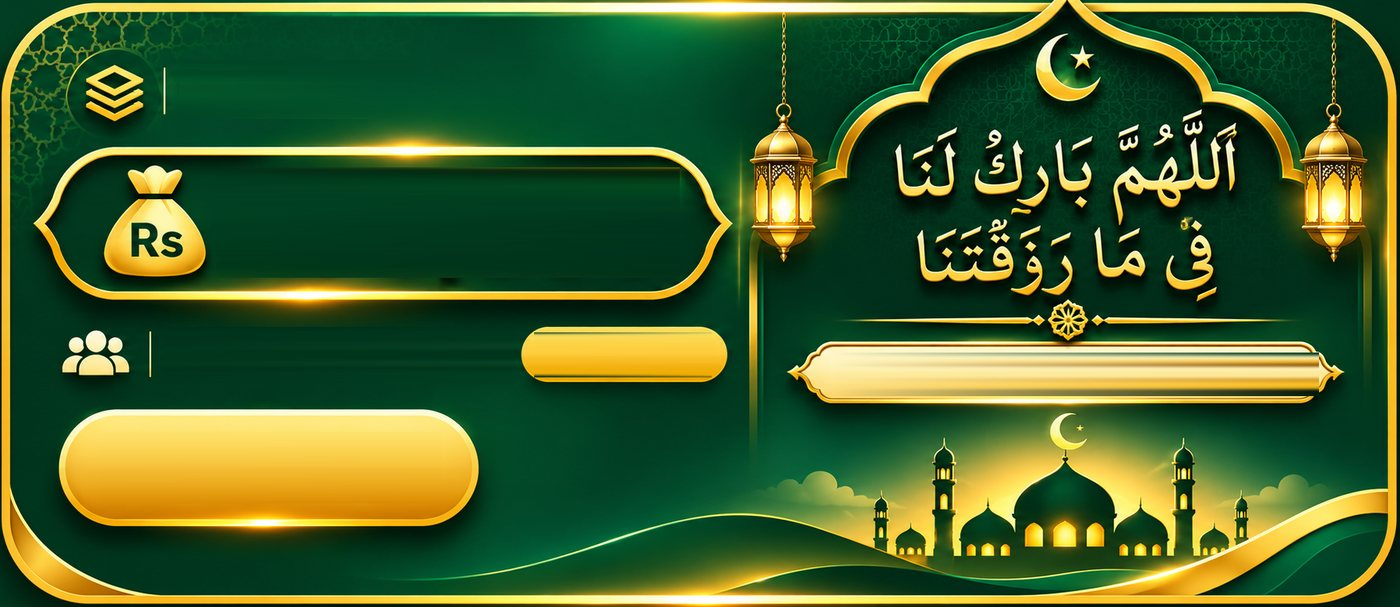
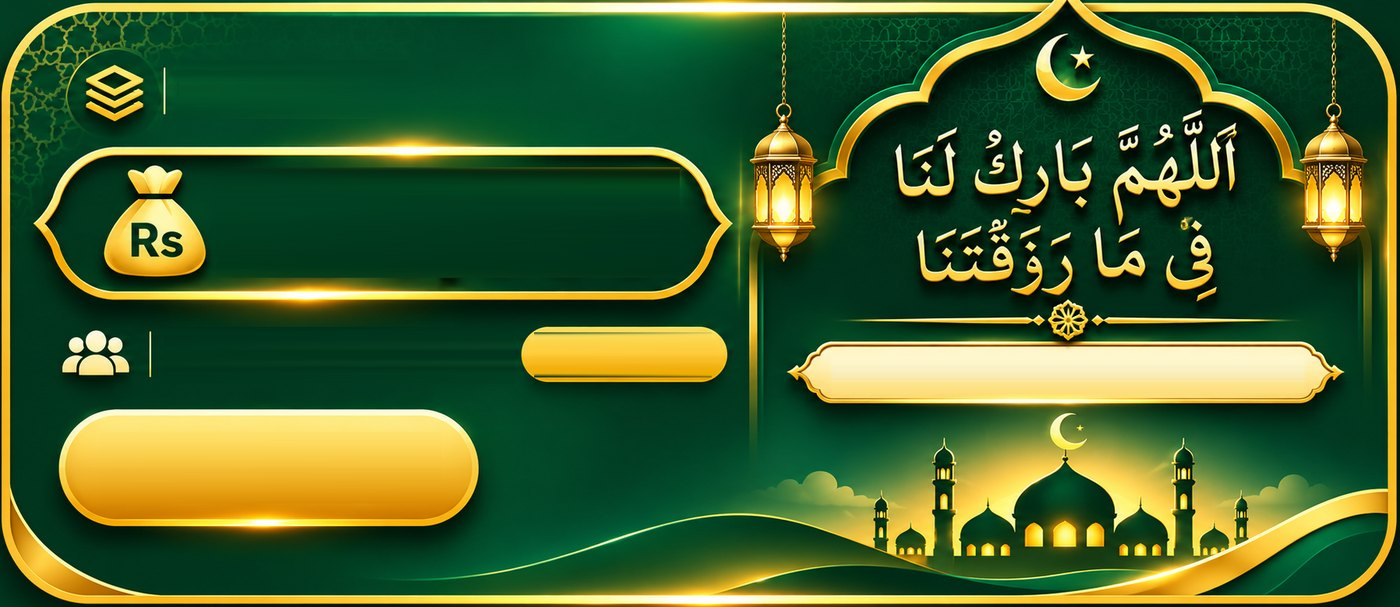
Add files via upload

Changed region(s): [[0.6143, 0.5634, 0.9521, 0.6524]]

diff --git a/index.html b/index.html
@@ -160,19 +160,22 @@ h1,h2,.num,.big,.kpi b{font-family:Montserrat,Nunito,"Noto Sans Arabic","Noto Sa
 .dua{font-family:Amiri,'Noto Naskh Arabic','Traditional Arabic',serif!important;font-weight:700;font-size:21px;line-height:1.75;text-align:center;direction:rtl;background:linear-gradient(180deg,#fff7cf 0%,#f8d96c 32%,#e3a722 58%,#a8740f 100%);-webkit-background-clip:text;background-clip:text;color:transparent;filter:drop-shadow(0 1.5px 0 #6b4a07) drop-shadow(0 4px 6px rgba(0,0,0,.45)) drop-shadow(0 0 10px rgba(246,207,91,.35));margin:0}
 .duabox{flex:0 1 46%;max-width:190px;text-align:center;margin-inline-start:8px}.duabox small{display:block;color:#f3d47a;font-size:10.5px;line-height:1.35;margin-top:2px;font-weight:600}
 .infochips{display:flex;gap:6px;flex-wrap:wrap;margin:-2px 0 6px}.infochips button{background:#fff;color:#0b261b;border:1.5px solid #c8d6c4;box-shadow:none;padding:7px 12px;font-size:12.5px}.infochips button.hot{background:linear-gradient(180deg,#fff3d1,#f9df93);border-color:#d9a521}
-html[lang=ur] body *:not(.dua):not(.dua *){font-family:'Jameel Noori Nastaleeq','Noto Nastaliq Urdu',Nunito,sans-serif!important}
+html[lang=ur] body *:not(.dua):not(.dua *):not(.hb-amt):not(.hb-n){font-family:'Jameel Noori Nastaleeq','Noto Nastaliq Urdu',Nunito,sans-serif!important}
 html[lang=ur] body,html[lang=ur] button,html[lang=ur] input,html[lang=ur] select,html[lang=ur] textarea{line-height:1.95}
 html[lang=ur] h1{line-height:1.6}
 .hban{position:relative;container-type:inline-size;margin:12px -4px;direction:ltr;filter:drop-shadow(0 8px 14px rgba(0,0,0,.35))}
 .hban img{display:block;width:100%;height:auto;border-radius:4.2cqw}
-.hban>div,.hban>button{position:absolute;white-space:nowrap;line-height:1.15;unicode-bidi:plaintext}
+.hban>div,.hban>button{position:absolute;white-space:nowrap;line-height:1.25!important;unicode-bidi:plaintext;overflow:visible}
+html[lang=ur] .hban>div,html[lang=ur] .hban>button{line-height:1.7!important}
+.hb-n{font-family:Montserrat,Nunito,sans-serif!important}
 .hb-l1{left:13.2%;top:14.7%;transform:translateY(-50%);font-family:Montserrat,Nunito,sans-serif;font-weight:800;font-size:2.9cqw;color:#fff}
 .hb-amt{left:15.7%;top:36.5%;transform:translateY(-50%);font-family:Montserrat,Nunito,sans-serif;font-weight:800;color:#fff4d2;text-shadow:0 .28cqw 0 #9b7414,0 .6cqw 1.2cqw rgba(0,0,0,.55)}
-.hb-dl{left:12.1%;top:58.6%;transform:translateY(-50%);font-family:Montserrat,Nunito,sans-serif;font-weight:800;font-size:2.4cqw;color:#fff;max-width:25.1cqw;overflow:hidden;text-overflow:ellipsis}
+.hb-dl{left:12.1%;top:58.6%;transform:translateY(-50%);font-family:Montserrat,Nunito,sans-serif;font-weight:800;font-size:2.4cqw;color:#fff;}
 .hb-pc{left:38.15%;width:12.7%;top:58.5%;transform:translateY(-50%);text-align:center;font-family:Montserrat,Nunito,sans-serif;font-weight:800;font-size:2.45cqw;color:#1c2b0f}
 .hban .hb-btn{left:4.3%;top:67.3%;width:29.8%;height:19.2%;background:transparent;box-shadow:none;border:0;border-radius:999px;padding:0;font-family:Montserrat,Nunito,sans-serif;font-weight:800;font-size:3.7cqw;color:#0b261b}
-.hb-rib{left:59.6%;width:34.6%;top:61.7%;transform:translateY(-50%);text-align:center;font-family:Georgia,'Times New Roman',serif;font-style:italic;font-weight:700;color:#0b261b}
+.hb-rib{left:61%;width:31.8%;top:61.7%;transform:translateY(-50%);overflow:hidden!important;text-align:center;font-family:Georgia,'Times New Roman',serif;font-style:italic;font-weight:700;color:#0b261b}
 html[lang=ur] .hb-rib,html[lang=ur] .hb-l1,html[lang=ur] .hb-dl{font-style:normal}
+html[lang=ur] .hb-rib{transform:translateY(-40%);line-height:1.5!important}
 .pw{position:relative}.pw input{padding-inline-end:54px}.pw .eye{position:absolute;inset-inline-end:6px;top:calc(50% - 3px);transform:translateY(-50%);background:none;box-shadow:none;border:0;padding:6px 10px;font-size:19px;line-height:1}
 .rep{overflow-x:auto}.rep table{font-size:11.5px}.rep td,.rep th{padding:6px 3px}@media print{.rep{overflow:visible}.rep table{font-size:12px}}
 </style>
@@ -504,12 +507,14 @@ function render(){
  const rtl=S.screen==='vw1'||S.screen==='vw2'?RTL7.includes(S.vlang):S.lang==='ur';
  const lg=(sc==='vw1'||sc==='vw2')?S.vlang:S.lang;document.documentElement.dir=rtl?'rtl':'ltr';document.documentElement.lang=lg;if(lg==='ur'&&!document.getElementById('nastf')){const l=document.createElement('link');l.id='nastf';l.rel='stylesheet';l.href='https://fonts.googleapis.com/css2?family=Noto+Nastaliq+Urdu:wght@400;700&display=swap';document.head.appendChild(l)}
  const a=$('#app');
- if(sc==='app')a.innerHTML=hdr()+bars()+`<main>${body()}<p class="foot">${t('devBy')}</p></main>`+nav();
+ if(sc==='app'){a.innerHTML=hdr()+bars()+`<main>${body()}<p class="foot">${t('devBy')}</p></main>`+nav();fitBan();setTimeout(fitBan,60)}
  else if(sc==='report')a.innerHTML=`<div class="rep-tools noprint"><button onclick="window.print()">🖨 ${t('print')}</button><button class="ghost" onclick="S.screen='app';render()">↩ ${t('back')}</button></div><p class="noprint center" style="color:#cfe6d9;font-size:12px;margin:0 0 8px;position:relative;z-index:1">${t('printHint')}</p><div class="rep">${S.report}</div>`;
  else if(sc==='vw1'||sc==='vw2')a.innerHTML=`<main class="vmain">${pre()}</main>`;else a.innerHTML=simpleHdr(true)+`<main>${pre()}</main>`;
 }
 function pwBox(id,extra){return `<div class="pw"><input id="${id}" type="password" ${extra||''}><button type="button" class="eye" onclick="togglePw('${id}',this)" aria-label="show password">👁</button></div>`}
 function togglePw(id,b){const i=$('#'+id);if(!i)return;const sh=i.type==='password';i.type=sh?'text':'password';b.textContent=sh?'🙈':'👁';i.focus()}
+function fitBan(){document.querySelectorAll('.hban').forEach(b=>{const W=b.clientWidth;if(!W)return;b.querySelectorAll('[data-fit]').forEach(el=>{const [mw,mh,st]=el.dataset.fit.split(',').map(Number);let f=st*W/100;el.style.fontSize=f+'px';let n=0;const MW=mw*W/100,MH=mh*W/100;while((el.scrollWidth>MW+1||el.scrollWidth>el.clientWidth+1||el.getBoundingClientRect().height>MH*1.15)&&n++<45){f*=0.94;el.style.fontSize=f+'px'}})})}
+addEventListener('resize',()=>fitBan());if(document.fonts){document.fonts.addEventListener&&document.fonts.addEventListener('loadingdone',()=>fitBan());document.fonts.ready.then(()=>fitBan())}
 function langSel(){return `<select id="lang" onchange="setLang(this.value)">${LANGS.map(([k,n])=>`<option value="${k}" ${S.lang===k?'selected':''}>${n}</option>`).join('')}</select>`}
 function simpleHdr(withLang){return `<header><div class="hlogo"><img src="logo.png" alt=""><h1>${esc(S.cfg.bizName||'Alina Boutique')}</h1></div><p>${t('appSub')}</p>${withLang?`<div class="row">${langSel()}</div>`:''}</header>`}
 function hdr(){
@@ -565,7 +570,7 @@ function vHomeA(){
  const mon=S.month==='all'?tot:sumAgg(agg(txArr().filter(x=>x.m===S.month)));
  const pn=txArr().filter(x=>x.type==='pay'&&x.st==='pending').length;
  const amt=money(tot.due),rib=t('duaT');
- return `<div class="hban"><img src="banner-home.jpg" alt=""><div class="hb-l1">${t('totDue')}</div><div class="hb-amt" style="font-size:${Math.min(6.55,30.7/(amt.length*0.62)).toFixed(2)}cqw">${amt}</div><div class="hb-dl">${t('withDist')}:</div><div class="hb-pc">${fmt(tot.left)} ${t('pcs')}</div><button class="hb-btn" onclick="plusMenu()">${t('newEntry')}</button><div class="hb-rib" style="font-size:${Math.min(2.65,32/(rib.length*0.5)).toFixed(2)}cqw">${rib}</div></div>
+ return `<div class="hban"><img src="banner-home.jpg" alt=""><div class="hb-l1" data-fit="26,4,2.9">${t('totDue')}</div><div class="hb-amt" data-fit="30.7,7.5,6.55">${amt}</div><div class="hb-dl" data-fit="25,3.6,2.4">${t('withDist')}:</div><div class="hb-pc" data-fit="13,3.1,2.45"><span class="hb-n">${fmt(tot.left)}</span> ${t('pcs')}</div><button class="hb-btn" onclick="plusMenu()"><span data-fit="27,7,3.7" style="display:inline-block;white-space:nowrap">${t('newEntry')}</span></button><div class="hb-rib" data-fit="32,2.9,2.55">${rib}</div></div>
  <div class="infochips"><button class="${pn?'hot':''}" onclick="showPending()">⏳ ${t('pendBtn')} (${pn})</button><button onclick="repMonth(curM())">📄 ${t('monthPdf')}</button><button onclick="showDueList()">💰 ${t('dueList')}</button></div>
  ${monthChips()}
  ${card(S.month==='all'?t('since'):mName(S.month),kpis([[t('given'),fmt(mon.g)+' '+t('pcs')],[t('sold'),fmt(mon.s)+' '+t('pcs')],[t('returned'),fmt(mon.r)+' '+t('pcs')],[t('lost'),fmt(mon.l)+' '+t('pcs'),'neg'],[t('saleVal'),money(mon.sv)],[t('received'),money(mon.paid),'pos'],[t('adminProfit'),money(mon.ap),'pos'],[t('distProfit'),money(mon.dp)],[t('lossVal'),money(mon.lv),'neg'],[t('pending'),money(mon.pend)]]))}`;

diff --git a/sw.js b/sw.js
@@ -1,5 +1,5 @@
 // CDM Business Market - service worker (network-first)
-const C='alina-v8';
+const C='alina-v11';
 self.addEventListener('install',e=>self.skipWaiting());
 self.addEventListener('activate',e=>e.waitUntil(caches.keys().then(ks=>Promise.all(ks.filter(k=>k!==C).map(k=>caches.delete(k)))).then(()=>self.clients.claim())));
 self.addEventListener('fetch',e=>{
